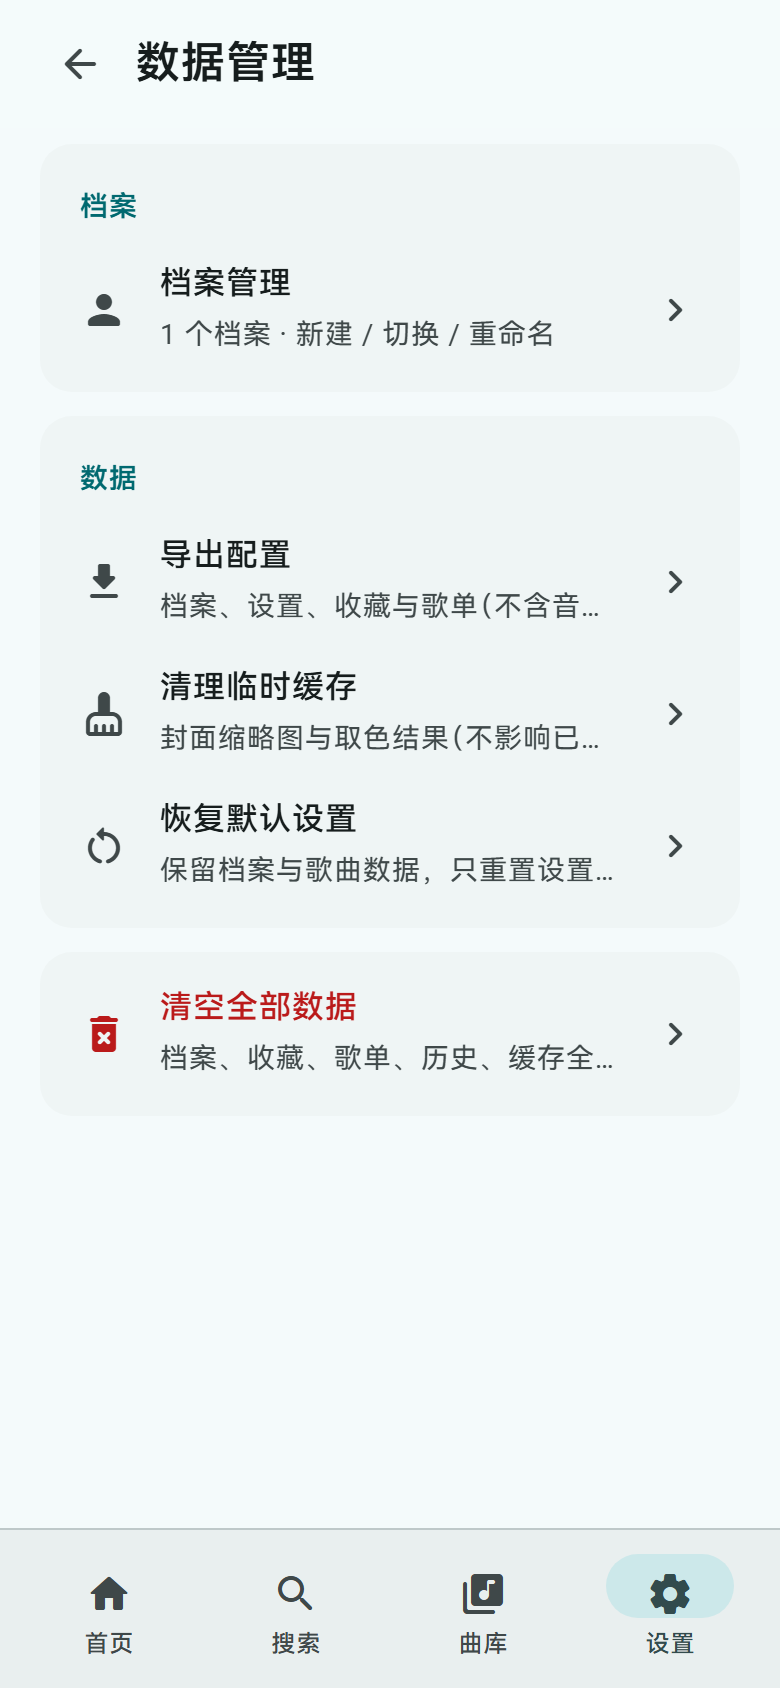
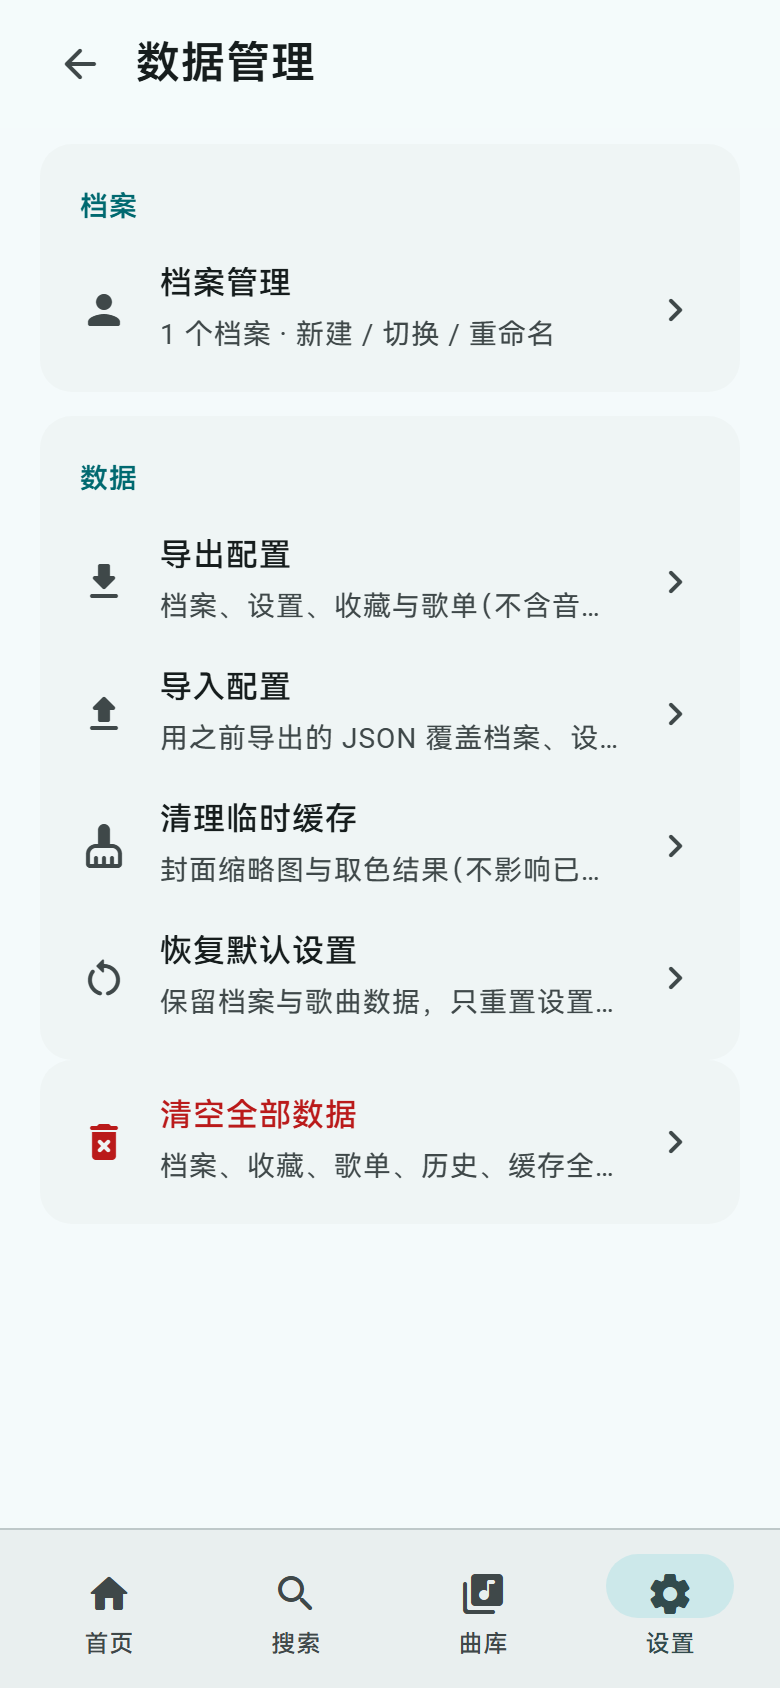
修播放器封面回退缺失、滑杆缓冲闪烁、桌面波形间距；数据管理加导入配置；封面水合不再被缓存卡住

diff --git a/js/ui/pages/me.js b/js/ui/pages/me.js
@@ -387,6 +387,11 @@ async function renderData(root) {
         '<div class="list-item__body"><div class="list-item__title">导出配置</div>' +
         '<div class="list-item__sub">档案、设置、收藏与歌单（不含音频）</div></div>' +
         '<div class="list-item__trail">' + icon('chevron_right') + '</div></div>' +
+      '<div class="list-item" data-act="import" role="button" tabindex="0">' +
+        '<div class="list-item__art list-item__art--icon">' + icon('file_upload') + '</div>' +
+        '<div class="list-item__body"><div class="list-item__title">导入配置</div>' +
+        '<div class="list-item__sub">用之前导出的 JSON 覆盖档案、设置、收藏与歌单</div></div>' +
+        '<div class="list-item__trail">' + icon('chevron_right') + '</div></div>' +
       '<div class="list-item" data-act="cleanthumbs" role="button" tabindex="0">' +
         '<div class="list-item__art list-item__art--icon">' + icon('cleaning_services') + '</div>' +
         '<div class="list-item__body"><div class="list-item__title">清理临时缓存</div>' +
@@ -398,6 +403,7 @@ async function renderData(root) {
         '<div class="list-item__sub">保留档案与歌曲数据，只重置设置项</div></div>' +
         '<div class="list-item__trail">' + icon('chevron_right') + '</div></div>' +
     '</div>' +
+    '<input type="file" accept="application/json,.json" hidden data-import-file>' +
     '<div class="group">' +
       '<div class="list-item" data-act="wipe" role="button" tabindex="0">' +
         '<div class="list-item__art list-item__art--icon" style="color:var(--md-sys-color-error)">' + icon('delete_forever') + '</div>' +
@@ -407,8 +413,54 @@ async function renderData(root) {
     '</div>';
 
   root.querySelectorAll('[data-route]').forEach((row) => row.addEventListener('click', () => router.go(row.dataset.route)));
+  const importInput = root.querySelector('[data-import-file]');
+  importInput.addEventListener('change', async () => {
+    const file = importInput.files && importInput.files[0];
+    importInput.value = '';
+    if (!file) return;
+    let payload;
+    try {
+      payload = JSON.parse(await file.text());
+    } catch (err) {
+      toast('不是有效的 JSON 文件');
+      return;
+    }
+    if (!payload || payload.app !== 'Melody') {
+      toast('不是 Melody 的备份文件');
+      return;
+    }
+    const counts = [
+      (payload.profiles || []).length + ' 个档案',
+      (payload.favorites || []).length + ' 条收藏',
+      (payload.playlists || []).length + ' 个歌单',
+    ].join(' · ');
+    openDialog({
+      title: '导入配置？',
+      description: '会覆盖当前的档案、设置、收藏与歌单（已缓存的音频不受影响）。导入内容：' + counts,
+      actions: [
+        { label: '取消', variant: 'text' },
+        { label: '覆盖导入', variant: 'filled', onClick: async () => {
+          try {
+            const names = ['profiles', 'favorites', 'playlists', 'playlistItems'];
+            await Promise.all(names.map((name) => idb.clear(name)));
+            await idb.clear('settings');
+            for (const name of names) {
+              if (Array.isArray(payload[name]) && payload[name].length) await idb.putAll(name, payload[name]);
+            }
+            if (Array.isArray(payload.settings) && payload.settings.length) await idb.putAll('settings', payload.settings);
+            toast('导入完成，正在刷新…');
+            setTimeout(() => location.reload(), 700);
+          } catch (err) {
+            toast('导入失败：' + err.message);
+          }
+        } },
+      ],
+    });
+  });
+
   root.querySelectorAll('[data-act]').forEach((row) => row.addEventListener('click', async () => {
     const act = row.dataset.act;
+    if (act === 'import') { importInput.click(); return; }
     if (act === 'export') {
       const [allProfiles, settingsRows, favorites, playlists, items] = await Promise.all([
         listProfiles(),

diff --git a/js/ui/shell.js b/js/ui/shell.js
@@ -35,12 +35,13 @@ function renderDock() {
   if (!state.track) { dock.hidden = true; dock.innerHTML = ''; return; }
   dock.hidden = false;
   const track = state.track;
-  const art = artFor(track, 120);
+  const artList = coverSources(track, 120);
+  const art = artList[0] || '';
   dock.innerHTML =
     '<div class="dock__inner" data-dock-open role="button" tabindex="0" aria-label="展开播放器">' +
       '<div class="dock__progress"><span style="width:' + (state.duration ? (state.current / state.duration) * 100 : 0) + '%"></span></div>' +
       '<div class="dock__art">' + icon('music_note') +
-        (art ? '<img data-cover data-src="' + esc(art) + '" decoding="async" referrerpolicy="no-referrer" alt="">' : '') + '</div>' +
+        (art ? '<img data-cover data-src="' + esc(art) + '" data-fallbacks="' + esc(artList.slice(1).join('|')) + '" decoding="async" referrerpolicy="no-referrer" alt="">' : '') + '</div>' +
       '<div class="dock__body"><div class="dock__title">' + esc(track.title) + '</div>' +
       '<div class="dock__artist">' + esc(track.artist || '未知歌手') + '</div></div>' +
       '<button class="icon-btn" data-dock-toggle aria-label="' + (state.playing ? '暂停' : '播放') + '">' + icon(state.playing ? 'pause' : 'play_arrow') + '</button>' +
@@ -75,8 +76,12 @@ function renderPlayer() {
   const state = store.state.player;
   if (!state.track) { node.setAttribute('aria-hidden', 'true'); return; }
   const track = state.track;
-  const thumb = artFor(track, 200);
-  const full = artFor(track, 640);
+  // 缩略图用和列表完全相同的尺寸，并且带上候选回退（某些源的第一张图会 404）
+  const thumbList = coverSources(track, 120);
+  const fullList = coverSources(track);
+  const thumb = thumbList[0] || '';
+  const full = fullList[0] || thumb;
+  const fallbacks = thumbList.slice(1).join('|');
   const isOpen = state.mode === 'full';
   const desktop = window.matchMedia('(min-width: 900px)').matches;
   node.classList.toggle('is-open', isOpen);
@@ -103,7 +108,7 @@ function renderPlayer() {
       '<div class="player__body" data-mode="' + (desktop ? 'both' : viewMode) + '">' +
         '<div class="player__stage" data-stage>' +
           '<div class="player__cover" data-cover-full="' + esc(full) + '">' + icon('music_note', 'icon--72') +
-          (thumb ? '<img data-cover data-src="' + esc(thumb) + '" data-full="' + esc(full) + '" decoding="async" referrerpolicy="no-referrer" alt="">' : '') +
+          (thumb ? '<img data-cover data-src="' + esc(thumb) + '" data-fallbacks="' + esc(fallbacks) + '" data-full="' + esc(full) + '" decoding="async" referrerpolicy="no-referrer" alt="">' : '') +
           '</div>' +
         '</div>' +
         '<div class="player__panel"><div class="player__lyrics" data-lyrics>' +
@@ -219,7 +224,7 @@ export function mountShell() {
     const next = [
       p.track ? p.track.id : '',
       p.track ? p.track.title : '',
-      p.playing, p.mode, p.loading, p.error, p.repeat, p.shuffle,
+      p.playing, p.mode, p.error, p.repeat, p.shuffle,
     ].join('|');
     if (next === signature) { updateProgress(); return; }
     signature = next;

diff --git a/tools/t-cover-verify.js b/tools/t-cover-verify.js
@@ -1,0 +1,20 @@
+(async () => {
+  await new Promise((r) => setTimeout(r, 3500));
+  const rows = Array.from(document.querySelectorAll('[data-track-id]'));
+  const target = rows.find((row) => row.querySelector('.list-item__title').textContent.includes('不曾忘记')) || rows.find((row) => row.querySelector('.list-item__art img'));
+  if (!target) return { error: 'no row' };
+  const listSrc = target.querySelector('.list-item__art img')?.getAttribute('data-src') || target.querySelector('.list-item__art img')?.getAttribute('src') || '';
+  target.click();
+  await new Promise((r) => setTimeout(r, 2800));
+  document.querySelector('[data-dock-open]').click();
+  await new Promise((r) => setTimeout(r, 2500));
+  const img = document.querySelector('.player__cover img');
+  return {
+    title: target.querySelector('.list-item__title').textContent.trim().slice(0, 20),
+    listSrc: listSrc.slice(-46),
+    playerDataSrc: img ? (img.dataset.src || '').slice(-46) : null,
+    playerSrc: img ? (img.getAttribute('src') || '').slice(0, 30) : null,
+    loaded: img ? img.classList.contains('is-loaded') : false,
+    nat: img ? img.naturalWidth : 0,
+  };
+})()

diff --git a/js/ui/cover.js b/js/ui/cover.js
@@ -5,6 +5,7 @@ import { getThumb, putThumb, trimThumbs } from '../data/repo.js';
 
 const mem = new Map();
 const inflight = new Set();
+let thumbWrites = 0;
 let engineInstalled = false;
 
 export function sized(url, size) {
@@ -36,7 +37,11 @@ async function hydrateImg(img) {
   if (!url) return;
   if (mem.has(url)) { img.src = mem.get(url); return; }
   try {
-    const blob = await getThumb(url);
+    // 缓存读取不能拖住显示：最多等 300ms，超时直接用网络地址
+    const blob = await Promise.race([
+      getThumb(url),
+      new Promise((resolve) => setTimeout(() => resolve(null), 300)),
+    ]);
     if (blob) {
       const objectUrl = URL.createObjectURL(blob);
       mem.set(url, objectUrl);
@@ -60,7 +65,8 @@ function cacheRemote(url, img) {
       if (!blob || blob.size < 200 || blob.size > 400 * 1024) return;
       await putThumb(url, blob);
       if (img && !img.src) img.src = url;
-      trimThumbs(400).catch(() => {});
+      thumbWrites += 1;
+      if (thumbWrites % 25 === 0) trimThumbs(400).catch(() => {});
     })
     .catch(() => {})
     .finally(() => inflight.delete(url));

diff --git a/tools/t-cover-dbg2.js b/tools/t-cover-dbg2.js
@@ -1,0 +1,22 @@
+(async () => {
+  await new Promise((r) => setTimeout(r, 3500));
+  const rows = Array.from(document.querySelectorAll('[data-track-id]'));
+  const target = rows.find((row) => row.querySelector('.list-item__title').textContent.includes('不曾忘记'));
+  if (!target) return { error: 'no row' };
+  target.click();
+  await new Promise((r) => setTimeout(r, 2800));
+  document.querySelector('[data-dock-open]').click();
+  await new Promise((r) => setTimeout(r, 2000));
+  const { store } = await import('./js/core/store.js');
+  const reg = await import('./js/sources/registry.js');
+  const track = store.state.player.track;
+  const box = document.querySelector('.player__cover');
+  return {
+    title: track && track.title,
+    artwork: track && track.artwork,
+    refs: track && track.sources.map((s) => ({ s: s.source, art: s.artwork || null })),
+    candidates120: track ? reg.artworkCandidates(track, 120) : [],
+    candidatesRaw: track ? reg.artworkCandidates(track) : [],
+    boxHTML: box ? box.innerHTML.slice(0, 320) : null,
+  };
+})()

diff --git a/css/app.css b/css/app.css
@@ -802,7 +802,7 @@ body[data-paused="true"] .list-item__playing i { animation-play-state: paused; }
 
 @media (min-width: 840px) {
   .home-head { padding: 40px 0 4px; }
-  .waves { height: 176px; margin: 20px 0 30px; }
+  .waves { height: 64px; margin: 8px 0 14px; }
   .home-main {
     display: grid;
     grid-template-columns: minmax(0, 7fr) minmax(0, 5fr);
